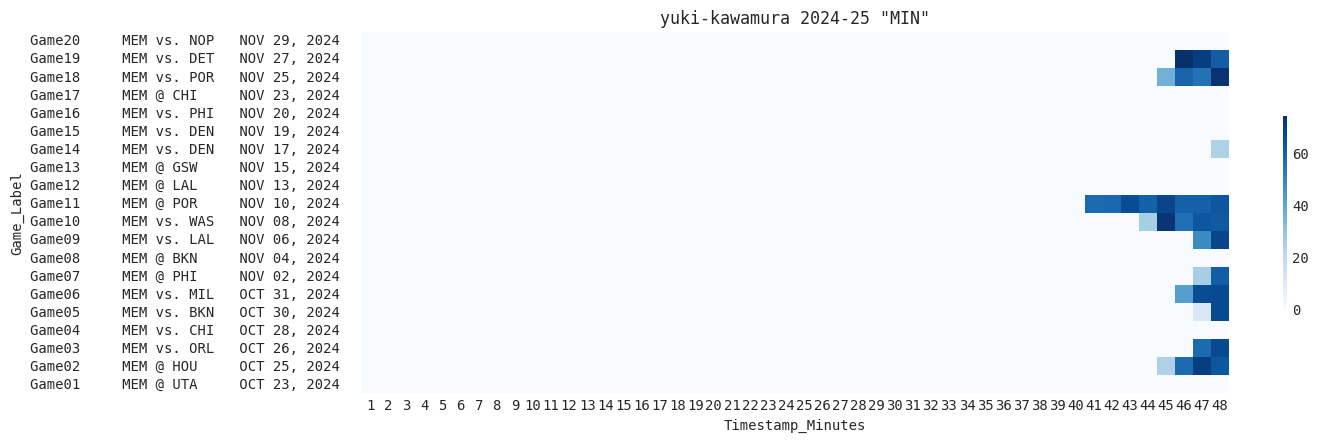
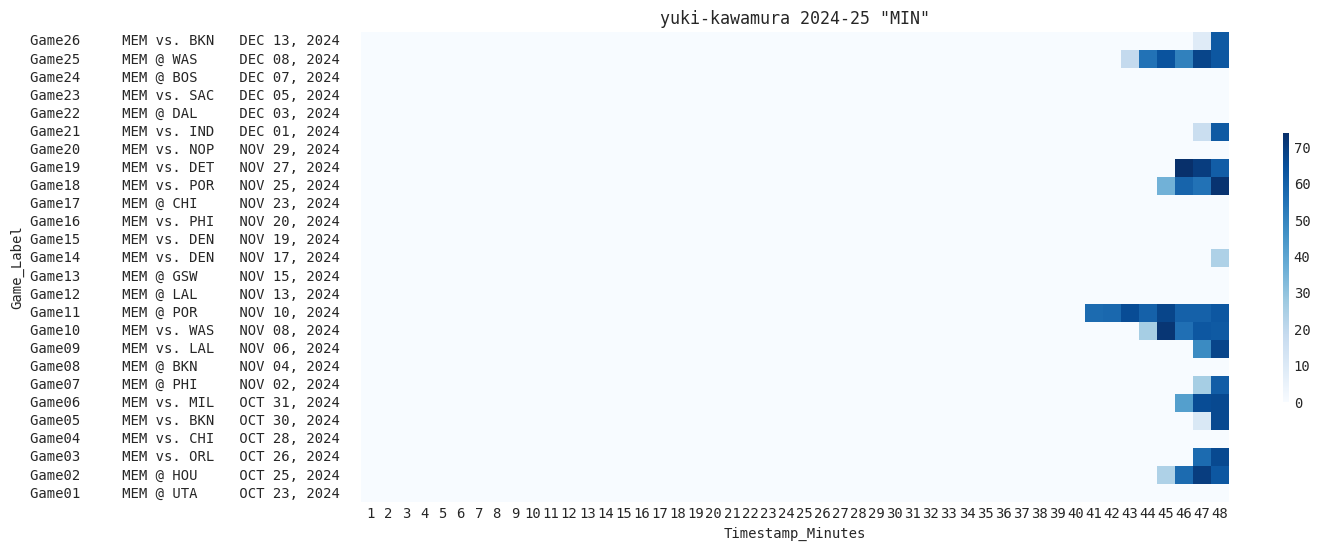
Update the result.

diff --git a/2024-25.md b/2024-25.md
@@ -1,5 +1,5 @@
 ## 活躍状況 2024-25 シーズン
-> Last Update: 2024-11-30 10:44:43
+> Last Update: 2024-12-14 20:23:12
 - (注)オーバータイム時の情報は対象外です。
 
 ### 八村塁 Rui Hachimura
